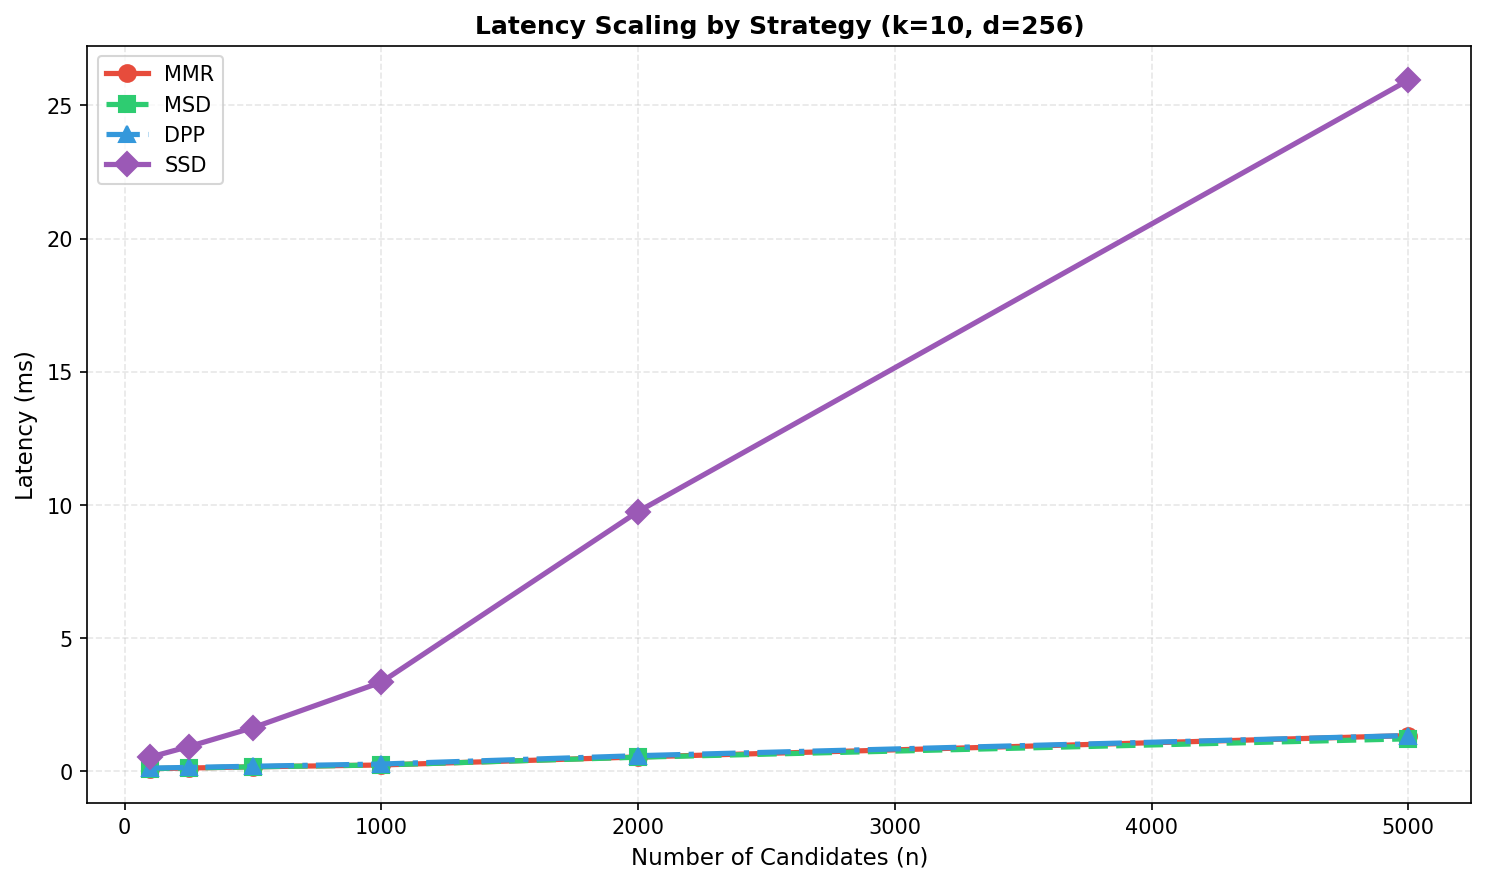
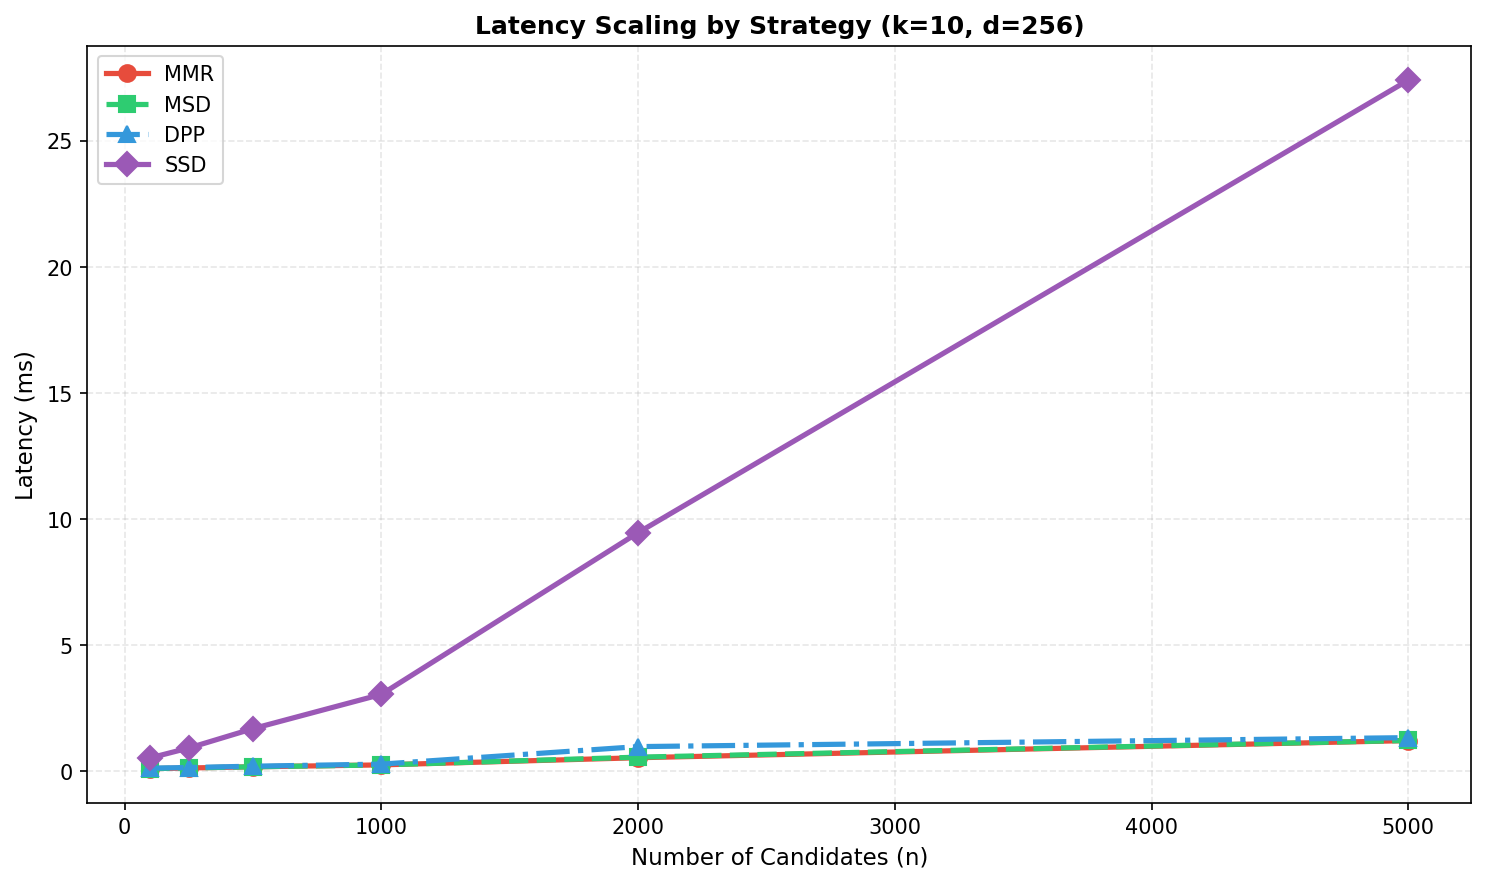
Updated results

diff --git a/benchmarks/core/report.py b/benchmarks/core/report.py
@@ -10,33 +10,50 @@ logger = logging.getLogger(__name__)
 
 STRATEGIES = ["mmr", "msd", "dpp", "ssd"]
 
-# Diversity regions for analysis (based on observed ranges across datasets)
-# ILAD observed: 0.46-0.99, ILMD observed: 0.00-0.73
-ILAD_REGIONS = {
-    "low": (0.45, 0.60),
-    "moderate": (0.60, 0.75),
-    "high": (0.75, 1.0),
-}
-ILMD_REGIONS = {
-    "low": (0.0, 0.20),
-    "moderate": (0.20, 0.45),
-    "high": (0.45, 0.75),
-}
+
+def _compute_dynamic_regions(all_data: list[dict], metric: str) -> dict[str, tuple[float, float]]:
+    """Compute diversity regions dynamically by dividing observed range into thirds."""
+    values = [p[metric] for p in all_data if metric in p]
+    if not values:
+        # Fallback defaults
+        if metric == "ilad":
+            return {"low": (0.45, 0.60), "moderate": (0.60, 0.75), "high": (0.75, 1.0)}
+        return {"low": (0.0, 0.20), "moderate": (0.20, 0.45), "high": (0.45, 0.75)}
+
+    min_val = min(values)
+    max_val = max(values)
+    step = (max_val - min_val) / 3
+
+    return {
+        "low": (min_val, min_val + step),
+        "moderate": (min_val + step, min_val + 2 * step),
+        "high": (min_val + 2 * step, max_val + 0.01),  # +0.01 to include max
+    }
 
 
 def _compute_regional_winners(
     all_data: list[dict],
-) -> dict[str, dict[str, dict[str, int]]]:
+) -> tuple[dict[str, dict[str, dict[str, int]]], dict[str, dict[str, tuple[float, float]]]]:
     """
     Count dataset wins for each strategy in each diversity region.
 
     A "win" means having the highest average nDCG for that region on a specific dataset.
-    Returns dict mapping metric -> region -> strategy -> win_count.
+
+    Returns
+    -------
+        - results: dict mapping metric -> region -> strategy -> win_count
+        - ranges: dict mapping metric -> region -> (low, high) bounds
+
     """
     results: dict[str, dict[str, dict[str, int]]] = {"ilad": {}, "ilmd": {}}
     datasets = sorted(set(p["dataset"] for p in all_data))
 
-    for metric, regions in [("ilad", ILAD_REGIONS), ("ilmd", ILMD_REGIONS)]:
+    # Compute dynamic regions based on actual data
+    ilad_regions = _compute_dynamic_regions(all_data, "ilad")
+    ilmd_regions = _compute_dynamic_regions(all_data, "ilmd")
+    all_regions = {"ilad": ilad_regions, "ilmd": ilmd_regions}
+
+    for metric, regions in [("ilad", ilad_regions), ("ilmd", ilmd_regions)]:
         for region_name, (low, high) in regions.items():
             win_counts: dict[str, int] = {s: 0 for s in STRATEGIES}
 
@@ -51,14 +68,14 @@ def _compute_regional_winners(
                 for point in region_points:
                     strategy_ndcg[point["strategy"]].append(point["ndcg"])
 
-                # Find winner for this dataset
+                # Find winner for this dataset (using max nDCG - best achievable)
                 best_strategy = None
                 best_ndcg = -1.0
                 for strategy, ndcgs in strategy_ndcg.items():
                     if ndcgs:
-                        avg = sum(ndcgs) / len(ndcgs)
-                        if avg > best_ndcg:
-                            best_ndcg = avg
+                        max_ndcg = max(ndcgs)
+                        if max_ndcg > best_ndcg:
+                            best_ndcg = max_ndcg
                             best_strategy = strategy
 
                 if best_strategy:
@@ -66,7 +83,18 @@ def _compute_regional_winners(
 
             results[metric][region_name] = win_counts
 
-    return results
+    return results, all_regions
+
+
+def _find_best_or_tied(wins: dict[str, int]) -> str:
+    """Find best strategy or list ties (e.g., 'DPP/MSD')."""
+    if not wins:
+        return "-"
+    max_wins = max(wins.values())
+    if max_wins == 0:
+        return "-"
+    winners = [s.upper() for s, count in wins.items() if count == max_wins]
+    return "/".join(sorted(winners))
 
 
 def generate_pareto_plot(all_data: list[dict], output_path: Path, diversity_metric: str = "ilad") -> None:
@@ -172,7 +200,9 @@ def generate_latency_plot(output_path: Path) -> None:
     plt.close()
 
 
-def _log_regional_analysis(regional: dict, num_datasets: int) -> None:
+def _log_regional_analysis(
+    regional: dict, ranges: dict[str, dict[str, tuple[float, float]]], num_datasets: int
+) -> None:
     """Log regional analysis tables."""
     logger.info(f"\nRegional Analysis (dataset wins out of {num_datasets} datasets):")
     logger.info("\nILAD (Average Diversity):")
@@ -181,12 +211,12 @@ def _log_regional_analysis(regional: dict, num_datasets: int) -> None:
     for region in ["low", "moderate", "high"]:
         if region in regional["ilad"]:
             wins = regional["ilad"][region]
-            low, high = ILAD_REGIONS[region]
-            best = max(wins.items(), key=lambda x: x[1])[0] if wins else "-"
+            low, high = ranges["ilad"][region]
+            best = _find_best_or_tied(wins)
             logger.info(
-                f"| {region:8} | {low:.1f}-{high:.1f}   | "
+                f"| {region:8} | {low:.2f}-{high:.2f} | "
                 f"{wins.get('mmr', 0):3d} | {wins.get('msd', 0):3d} | "
-                f"{wins.get('dpp', 0):3d} | {wins.get('ssd', 0):3d} | {best.upper():6} |"
+                f"{wins.get('dpp', 0):3d} | {wins.get('ssd', 0):3d} | {best:6} |"
             )
 
     logger.info("\nILMD (Minimum Diversity):")
@@ -195,13 +225,18 @@ def _log_regional_analysis(regional: dict, num_datasets: int) -> None:
     for region in ["low", "moderate", "high"]:
         if region in regional["ilmd"]:
             wins = regional["ilmd"][region]
-            low, high = ILMD_REGIONS[region]
-            best = max(wins.items(), key=lambda x: x[1])[0] if wins else "-"
+            low, high = ranges["ilmd"][region]
+            best = _find_best_or_tied(wins)
             logger.info(
                 f"| {region:8} | {low:.2f}-{high:.2f} | "
                 f"{wins.get('mmr', 0):3d} | {wins.get('msd', 0):3d} | "
-                f"{wins.get('dpp', 0):3d} | {wins.get('ssd', 0):3d} | {best.upper():6} |"
+                f"{wins.get('dpp', 0):3d} | {wins.get('ssd', 0):3d} | {best:6} |"
             )
+
+    # Log the computed ranges
+    logger.info("\nDynamic ranges computed from data:")
+    logger.info(f"  ILAD: {ranges['ilad']}")
+    logger.info(f"  ILMD: {ranges['ilmd']}")
 
     # Summary: total wins across all regions
     logger.info("\nTotal Wins Summary:")
@@ -260,8 +295,8 @@ def generate_report(results_dir: Path) -> None:
     logger.debug(f"Saved: {latency_path}")
 
     # Regional analysis - count wins per dataset
-    regional = _compute_regional_winners(all_data)
+    regional, ranges = _compute_regional_winners(all_data)
     num_datasets = len(set(p["dataset"] for p in all_data))
-    _log_regional_analysis(regional, num_datasets)
+    _log_regional_analysis(regional, ranges, num_datasets)
 
     logger.info(f"\nReport generated: {results_dir}")

diff --git a/benchmarks/README.md b/benchmarks/README.md
@@ -31,24 +31,26 @@ We evaluate using two diversity metrics that capture different aspects:
 
 ### Dataset Wins by Region
 
-We count how many datasets each strategy achieves the highest nDCG in each diversity region:
+We count how many datasets each strategy achieves the **highest max nDCG** in each diversity region.
+Regions are computed dynamically by dividing the observed range into thirds:
 
 | Metric | Region   | Range       | MMR | MSD | DPP | SSD | Best    |
 |--------|----------|-------------|:---:|:---:|:---:|:---:|---------|
-| ILAD   | Low      | 0.45-0.60   | 0   | 2   | 1   | 0   | **MSD** |
-| ILAD   | Moderate | 0.60-0.75   | 0   | 3   | 0   | 0   | **MSD** |
-| ILAD   | High     | 0.75-1.00   | 0   | 3   | 1   | 0   | **MSD** |
-| ILMD   | Low      | 0.00-0.20   | 2   | 0   | 2   | 0   | MMR/DPP |
-| ILMD   | Moderate | 0.20-0.45   | 1   | 0   | 3   | 0   | **DPP** |
-| ILMD   | High     | 0.45-0.75   | 2   | 0   | 2   | 0   | MMR/DPP |
-| | | **Total** | **5** | **8** | **9** | **0** | **DPP** |
+| ILAD   | Low      | 0.33-0.55   | 0   | 1   | 1   | 1   | Tied    |
+| ILAD   | Moderate | 0.55-0.77   | 0   | 2   | 1   | 0   | **MSD** |
+| ILAD   | High     | 0.77-1.00   | 0   | 3   | 1   | 0   | **MSD** |
+| ILMD   | Low      | 0.04-0.29   | 1   | 1   | 1   | 1   | Tied    |
+| ILMD   | Moderate | 0.29-0.54   | 1   | 0   | 2   | 1   | **DPP** |
+| ILMD   | High     | 0.54-0.79   | 2   | 0   | 1   | 0   | **MMR** |
+| | | **Total** | **4** | **7** | **7** | **3** | **MSD/DPP** |
 
-*Wins per region: dataset has a "win" if the strategy achieves highest avg nDCG in that diversity range. Some rows sum to <4 when a dataset has no data points in that region.*
+*Wins per region: strategy with highest max nDCG in that diversity range wins. Some rows sum to <4 when a dataset has no data points in that region.*
 
 **Key insight:**
-- **DPP** wins overall—best at balancing relevance with ILMD (no similar pairs)
-- **MSD** dominates ILAD—best when you want maximum variety
-- **MMR** is a solid baseline with wins across regions
+- **MSD** and **DPP** tied at 7 wins each—but excel at different diversity metrics
+- **MSD** dominates ILAD—best for maximum overall variety
+- **DPP** excels at ILMD—best at ensuring no similar pairs slip through
+- **MMR** wins high ILMD regions—competitive simple baseline
 - **SSD** shines in sequence-aware settings (see note below)
 
 > **Note on SSD:** These benchmarks evaluate single-batch diversification. SSD is designed for
@@ -60,11 +62,11 @@ We count how many datasets each strategy achieves the highest nDCG in each diver
 
 | Goal | Strategy | diversity | Why |
 |-----------|----------|-----------|-----|
-| Maximum variety | **MSD** | 0.7-1.0 | Dominates ILAD across all regions |
-| Avoid similar pairs | **DPP** | 0.5-0.8 | Best ILMD wins, balances relevance |
-| Balanced tradeoff | **DPP** | 0.4-0.6 | Most total wins (8), good on both metrics |
+| Maximum variety | **MSD** | 0.7-1.0 | Dominates ILAD (best overall spread) |
+| Avoid similar pairs | **DPP** | 0.5-0.8 | Best ILMD in moderate region |
+| Balanced tradeoff | **DPP** | 0.4-0.6 | Strong on both ILAD and ILMD |
 | Sequence-aware feeds | **SSD** | 0.3-0.5 | Use with `recent_embeddings` |
-| Simple baseline | **MMR** | 0.3-0.5 | Easy to implement and tune |
+| Simple baseline | **MMR** | 0.3-0.5 | Easy to implement, competitive |
 
 *`diversity=0` prioritizes relevance, `diversity=1` prioritizes diversity.*
 
@@ -173,20 +175,16 @@ python -m benchmarks report
 For each diversity region (e.g., ILAD 0.5-0.7), we:
 
 1. **Filter** each strategy's results to points within that region
-2. **Find best nDCG** achieved by each strategy in that region
-3. **Compare across strategies** per dataset—the strategy with highest nDCG "wins" that dataset
+2. **Find max nDCG** achieved by each strategy in that region
+3. **Compare across strategies** per dataset—the strategy with highest max nDCG "wins" that dataset
 4. **Count wins** across all 4 datasets to determine the overall leader
 
-This approach measures: *"At a given diversity level, which strategy maintains the best relevance?"*
+This approach measures: *"At a given diversity level, which strategy can achieve the best relevance?"*
 
-We use three regions per metric based on observed ranges across all datasets:
-- **ILAD range**: 0.46–0.99 across all strategies/datasets → regions at 0.45-0.60, 0.60-0.75, 0.75-1.00
-- **ILMD range**: 0.00–0.73 across all strategies/datasets → regions at 0.00-0.20, 0.20-0.45, 0.45-0.75
-
-Regions:
-- **Low**: Where diversification begins
-- **Moderate**: Balanced tradeoff zone
-- **High**: Strong diversity
+Regions are computed dynamically by dividing the observed metric range (across all strategies and datasets) into thirds:
+- **Low**: First third of observed range
+- **Moderate**: Middle third
+- **High**: Top third
 
 *Note: Not all strategies reach all regions on all datasets. A "-" in the per-dataset table means no data points in that region.*
 
